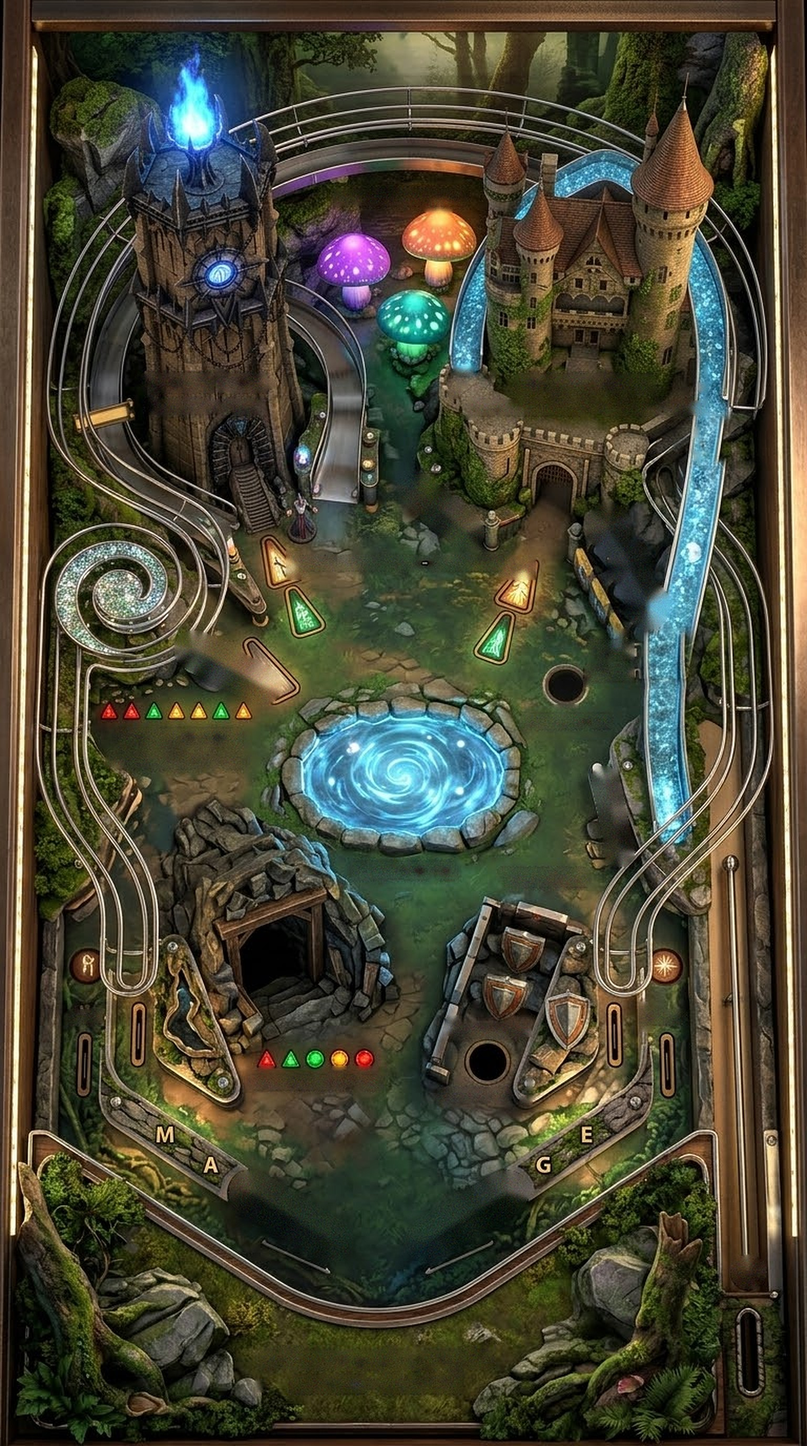
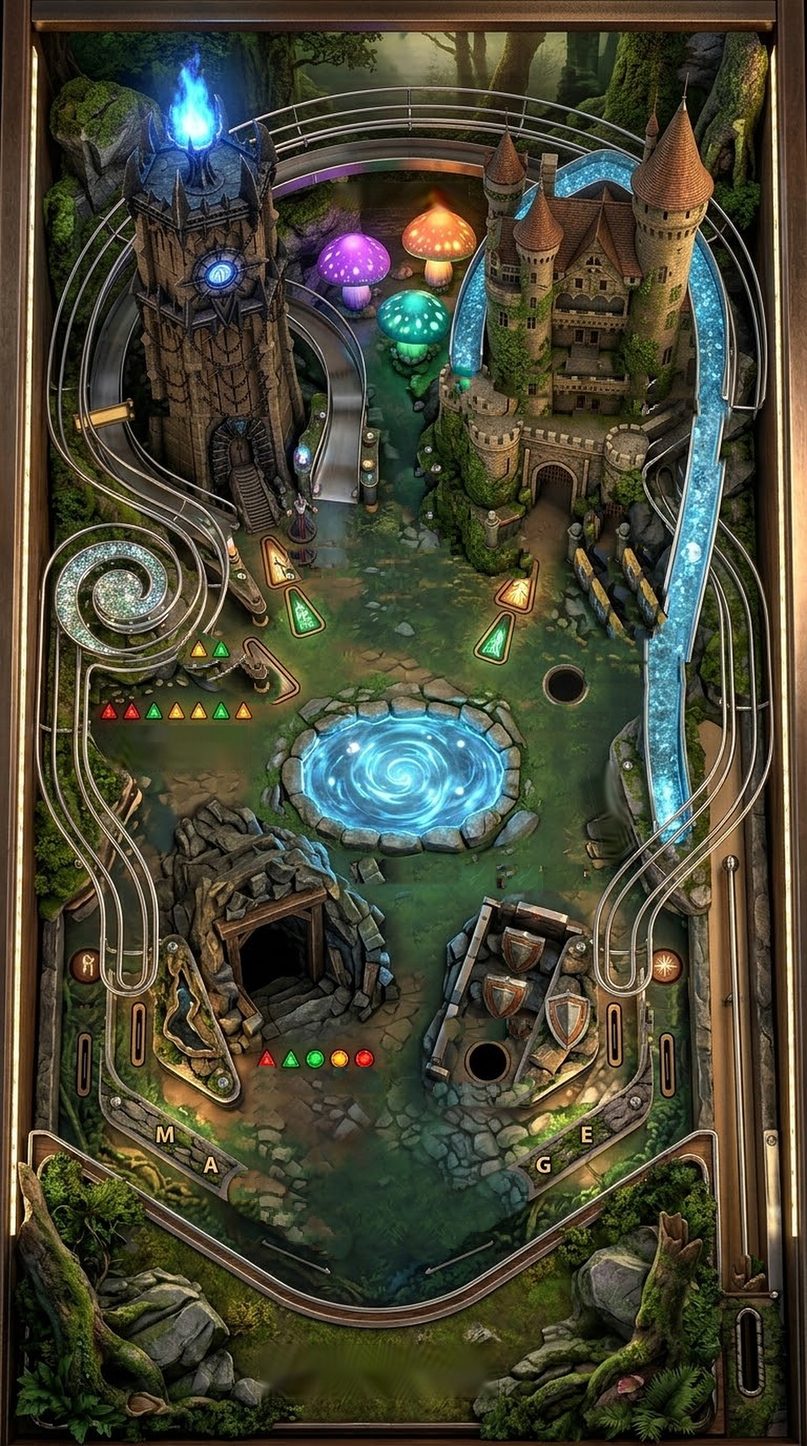
Pinball v2.3.0: reachable tower ramp, cleaner board art, sinking ball, ramp arrow
- Tower ramp: funnel arms at the mouth, shield target moved off the right
  flipper's ramp line, lower speed threshold (about 4x more successful shots).
- Board art: patch-based inpainting (SHIFTMAP) with per-region FSR/limited
  crops; no leftover letters, no smears, removed flippers show real texture.
- Balls slide into holes and sink below the surface, then rise out with a
  light ring (also when spawned for multiball and out of the tunnels).
- Chasing chevrons point at the tower ramp, faster/brighter when it pays more.
- Hint text says one right flipper.

Claude-Session: https://claude.ai/code/session_016sxfsLsBsC7Pz7HgfG51z5

diff --git a/pinball/js/world.js b/pinball/js/world.js
@@ -116,6 +116,8 @@ export class World {
     this.buildLights();
     this.buildPlayfield();
     this.buildOverlays();
+    this.buildTowerArrow();
+    this.ringFx = [];
     this.buildFlippers();
     this.buildSpinner();
     this.particles = new Particles(this.table);
@@ -316,6 +318,18 @@ export class World {
     this.add(g);
   }
 
+  // flashing chevrons that point at the tower ramp mouth
+  buildTowerArrow() {
+    const tex = T.chevronTexture();
+    const mouth = L.ramps.tower.entry;
+    this.towerChevrons = [0, 1, 2].map((i) => {
+      const m = new THREE.Mesh(flat(48, 48), additive({ map: tex, color: 0xffc860, opacity: 0 }));
+      m.position.copy(V(mouth.x + 2, mouth.y + 50 + (2 - i) * 34, LIFT * 3)); // i = 0 farthest from the mouth
+      m.renderOrder = 4;
+      return this.add(m);
+    });
+  }
+
   buildBalls() {
     this.ballMeshes = [];
     this.ballShadows = [];
@@ -353,6 +367,7 @@ export class World {
       case 'treasure': this.particles.emit(V(266, 900, 30), 0xffd24a, 80, 2.2, 1.4, 0.1, 1.6); break;
       case 'crystal': this.crystalFlash = 1; break;
       case 'lightshow': this.showT = 1.6; break;
+      case 'ring': this.ringFx.push({ m: this.glow(data.x, data.y, 30, 0xffe2a0, 5), t: 0 }); break;
       case 'burst': if (p) this.particles.emit(p, data.color ?? 0xffffff, data.n ?? 40, data.speed ?? 2, 1.1, 0.1, 1.5); break;
     }
   }
@@ -406,6 +421,25 @@ export class World {
     if (rnd() < dt * (2 + this.crystalFlash * 30)) { const s = phys?.rails?.crystal; if (s) { const q = s.at(rnd() * s.length); this.particles.emit(V(q.x, q.y, 6), 0xbff0ff, 1, 0.15, 0.9, 0.06, 0.5, 0); } }
     if (this.princessGlow && rnd() < dt * 10) this.particles.emit(V(540 + (rnd() - 0.5) * 80, 300 + (rnd() - 0.5) * 80, 40), 0xff9ad0, 1, 0.4, 1.2, 0.06, 1, -0.1);
 
+    // expanding light ring where a ball comes out of a hole / tunnel
+    this.ringFx = this.ringFx.filter((r) => {
+      r.t += dt; const k = r.t / 0.45;
+      if (k >= 1) { this.table.remove(r.m); r.m.material.dispose(); return false; }
+      r.m.scale.setScalar(1 + k * 3); r.m.material.opacity = (1 - k) * 0.9;
+      return true;
+    });
+    // tower ramp arrow: chase toward the mouth; faster and brighter when the shot is worth more
+    {
+      const hot = game && (game.multiball === 'wizard' || game.towerRampBoost);
+      const on = !game || game.state !== 'over';
+      const speed = hot ? 10 : 5;
+      this.towerChevrons.forEach((m, i) => {
+        const phase = (t * speed / (Math.PI * 2) * 3 - i) % 3;
+        const k = phase >= 0 && phase < 1 ? Math.sin(phase * Math.PI) : 0;
+        m.material.opacity = on ? (0.3 + k * (hot ? 1.3 : 1.0)) * c.glow : 0;
+        m.material.color.setHex(hot ? 0x7fd0ff : 0xffc860);
+      });
+    }
     if (phys) phys.flippers.forEach((f, i) => { this.flipperMeshes[i].rotation.y = -f.angle; });
     // light show: every lamp chases around the table for a moment
     this.showT = Math.max(0, (this.showT || 0) - dt);
@@ -417,10 +451,28 @@ export class World {
     if (phys) {
       this.ballMeshes.forEach((m, i) => {
         const b = phys.balls[i], sh = this.ballShadows[i];
-        if (!b || b.mode === 'held' || b.hidden) { m.visible = false; sh.visible = false; return; }
+        if (!b || b.hidden) { m.visible = false; sh.visible = false; return; }
+        const gt = game ? game.time : this.t;
+        let sinkH = 0;
+        if (b.mode === 'held') {
+          // sink: slide to the hole centre, then drop below the surface (the playfield hides it)
+          const e = b.sinkStart === undefined ? 9 : gt - b.sinkStart;
+          if (e > 0.5) { m.visible = false; sh.visible = false; return; }
+          const slide = Math.min(1, e / 0.12);
+          const fx = b.sinkFrom ? b.sinkFrom[0] + (b.x - b.sinkFrom[0]) * slide : b.x;
+          const fy = b.sinkFrom ? b.sinkFrom[1] + (b.y - b.sinkFrom[1]) * slide : b.y;
+          sinkH = -Math.max(0, (e - 0.1) / 0.4) * R * 2.3;
+          m.visible = true; m.position.copy(V(fx, fy, R + sinkH));
+          sh.visible = sinkH > -R; sh.position.copy(V(fx + 4, fy + 5, LIFT * 2.5)); sh.scale.setScalar(1);
+          return;
+        }
+        if (b.riseStart !== undefined) {
+          const e = gt - b.riseStart;
+          if (e < 0.3) sinkH = -(1 - e / 0.3) * R * 2.1; else b.riseStart = undefined;
+        }
         m.visible = true;
-        m.position.copy(this.ballWorld(b));
-        sh.visible = true;
+        m.position.copy(this.ballWorld(b)); m.position.y += sinkH * S;
+        sh.visible = sinkH > -R;
         const hh = b.h || 0;
         sh.position.copy(V(b.x + 4 + hh * 0.25, b.y + 5 + hh * 0.2, LIFT * 2.5));
         sh.scale.setScalar(1 + hh / 120);

diff --git a/pinball/js/layout.js b/pinball/js/layout.js
@@ -25,8 +25,8 @@ poly([[680, 1077], [362, 1252]]);
 export const TOWER_POLY = [[150, 296], [285, 300], [292, 432], [262, 468], [205, 468], [150, 380]];
 poly(TOWER_POLY, { closed: true, kind: 'rock' });
 // tower ramp mouth side walls
-poly([[290, 474], [290, 400]]);
-poly([[372, 474], [372, 404]]);
+poly([[284, 532], [290, 474], [290, 400]]);   // tower ramp mouth: left funnel arm
+poly([[398, 538], [372, 474], [372, 404]]);   // right funnel arm (guides right-flipper shots in)
 // top rail closing the mushroom glade
 poly([[290, 300], [286, 205], [322, 166], [382, 150], [442, 150], [474, 172]]);
 
@@ -51,7 +51,7 @@ poly([[618, 945], [618, 1040], [492, 1111]]);               // right inlane guid
 export const posts = [
   { x: 100, y: 875, r: 6 }, { x: 618, y: 945, r: 6 },
   { x: 162, y: 896, r: 7 }, { x: 212, y: 1032, r: 6 }, { x: m(162), y: 896, r: 7 }, { x: m(212), y: 1032, r: 6 },
-  { x: 290, y: 474, r: 5 }, { x: 372, y: 474, r: 5 }, { x: 655, y: 605, r: 6 },
+  { x: 284, y: 532, r: 5 }, { x: 398, y: 538, r: 5 }, { x: 655, y: 605, r: 6 },
 ];
 export const slings = [
   { a: SLING_L[0], b: SLING_L[2], side: 'L' },
@@ -81,7 +81,7 @@ export const dropTargets = [[579, 501], [599, 538], [616, 576]].map(([cx, cy], i
 export const TARGET_SPRITE = { x0: 552, y0: 470, x1: 640, y1: 604 };
 
 // ---- prince shields (stand-ups) on the drawn shields of the lower-right structure ----------
-export const shieldTargets = [[480, 947, 16], [538, 967, 16], [432, 878, 15]].map(([x, y, r], i) => ({ i, x, y, r, cx: x, cy: y, lamp: i === 2 ? [495, 902] : [x, y] }));
+export const shieldTargets = [[480, 947, 16], [538, 967, 16], [556, 926, 14]].map(([x, y, r], i) => ({ i, x, y, r, cx: x, cy: y, lamp: i === 2 ? [495, 902] : [x, y] }));
 
 export const castleGate = { a: [505, 461], b: [548, 461], x: 527, y: 450 };
 
@@ -105,7 +105,7 @@ export const pool = { x: 376, y: 726, rx: 102, ry: 72, r: 80 };
 // ---- rails: one-way wireforms/ramps following the drawn ramps. points [x, y, height]
 export const ramps = {
   tower: { // grey ramp behind the tower → spiral → left wires → left inlane
-    entry: { x: 331, y: 466, w: 78, diry: -1 }, minSpeed: 520, exit: { vx: 0, vy: 380 },
+    entry: { x: 331, y: 466, w: 78, diry: -1 }, minSpeed: 420, exit: { vx: 0, vy: 380 },
     pts: [[321, 466, 0], [330, 390, 30], [336, 300, 66], [305, 238, 92], [235, 205, 106], [160, 235, 104], [118, 310, 96], [100, 410, 88], [94, 470, 82],
       [62, 535, 76], [72, 608, 70], [140, 628, 64], [186, 568, 58], [150, 505, 52], [96, 528, 48], [104, 590, 44], [150, 582, 40], [140, 548, 37],
       [72, 640, 32], [64, 750, 26], [82, 850, 18], [108, 900, 10], [126, 940, 3]],

diff --git a/pinball/index.html b/pinball/index.html
@@ -8,7 +8,7 @@
   <meta name="apple-mobile-web-app-status-bar-style" content="black-translucent">
   <meta name="apple-mobile-web-app-title" content="פינבול">
   <meta name="theme-color" content="#0b130e">
-  <meta name="app-version" content="2.2.0">
+  <meta name="app-version" content="2.3.0">
   <title>פינבול היער והטירה</title>
   <link rel="manifest" href="manifest.json">
   <link rel="apple-touch-icon" href="assets/icon-180.png">
@@ -44,7 +44,7 @@
     <div id="camName"></div>
     <div id="pops"></div>
     <button id="plunger" aria-label="קפיץ שיגור"><span class="meter"><span id="plungerFill"></span></span><span class="lbl">החזיקו או<br>גררו למטה</span></button>
-    <div id="hint"><div><b>◀</b><span>הקשה בצד שמאל<br>שני הפליפרים השמאליים</span></div><div><b>▶</b><span>הקשה בצד ימין<br>שני הפליפרים הימניים</span></div></div>
+    <div id="hint"><div><b>◀</b><span>הקשה בצד שמאל<br>שני הפליפרים השמאליים</span></div><div><b>▶</b><span>הקשה בצד ימין<br>הפליפר הימני</span></div></div>
   </div>
 
   <section id="title" class="screen">
@@ -59,7 +59,7 @@
       </div>
       <ul id="achList" class="ach"></ul>
       <button id="btnStart" class="big">התחלת משחק</button>
-      <p class="help">צד שמאל של המסך = פליפרים שמאליים · צד ימין = ימניים · החזיקו את הקפיץ למטה מימין לשיגור · 🎥 מחליף זווית מצלמה<br>למסך מלא באייפון: שיתוף ← הוספה למסך הבית<br><span id="appVersion" dir="ltr"></span></p>
+      <p class="help">צד שמאל של המסך = שני הפליפרים השמאליים · צד ימין = הפליפר הימני · החזיקו את הקפיץ למטה מימין לשיגור · 🎥 מחליף זווית מצלמה<br>למסך מלא באייפון: שיתוף ← הוספה למסך הבית<br><span id="appVersion" dir="ltr"></span></p>
     </div>
   </section>
 

diff --git a/pinball/js/game.js b/pinball/js/game.js
@@ -281,6 +281,7 @@ export class Game {
   }
 
   capture(b, h) {
+    b.sinkFrom = [b.x, b.y]; b.sinkStart = this.time; // drives the sinking animation in World
     b.mode = 'held'; b.vx = b.vy = 0; b.x = h.x; b.y = h.y; b.h = 0;
     this.sound.play('hole');
     this.world.fx('spark', { x: h.x, y: h.y, h: 10, color: 0xffffff, n: 18 });
@@ -293,6 +294,8 @@ export class Game {
     const { b, h } = hd;
     b.mode = 'field';
     b.noCap = this.time + 0.6;
+    b.riseStart = this.time; // rising-out-of-the-hole animation in World
+    this.world.fx('ring', { x: h.out ? h.out[0] : h.x, y: h.out ? h.out[1] : h.y });
     const j = 1 + (Math.random() - 0.5) * 0.12;
     b.vx = h.kick.vx * j; b.vy = h.kick.vy * j;
     if (h.out) { b.x = h.out[0]; b.y = h.out[1]; } else { b.x = h.x + Math.sign(h.kick.vx) * 4; b.y = h.y + Math.sign(h.kick.vy) * 4; }
@@ -397,7 +400,7 @@ export class Game {
         if (this.state !== 'playing') return;
         const o = hole.out || [hole.x, hole.y + 6];
         const nb = this.phys.addBall(o[0] + (Math.random() - 0.5) * 4, o[1], hole.kick.vx * (0.8 + Math.random() * 0.4), hole.kick.vy);
-        nb.noCap = this.time + 0.8;
+        nb.noCap = this.time + 0.8; nb.riseStart = this.time;
         nb.launched = true;
         this.sound.play('kick');
         this.world.fx('burst', { x: hole.x, y: hole.y, color: kind === 'castle' ? 0xffcf6a : 0x7fc8ff });

diff --git a/pinball/js/textures.js b/pinball/js/textures.js
@@ -42,6 +42,17 @@ export function softDot() {
   return tex(c);
 }
 
+// chevron arrow (points to the top of the texture) with a soft glow
+export function chevronTexture() {
+  const s = 128; const [c, g] = canvas(s, s);
+  const path = () => { g.beginPath(); g.moveTo(20, 92); g.lineTo(64, 36); g.lineTo(108, 92); };
+  g.lineCap = 'round'; g.lineJoin = 'round';
+  g.strokeStyle = 'rgba(255,255,255,0.35)'; g.lineWidth = 34; path(); g.stroke();
+  g.strokeStyle = 'rgba(255,255,255,0.6)'; g.lineWidth = 22; path(); g.stroke();
+  g.strokeStyle = '#ffffff'; g.lineWidth = 11; path(); g.stroke();
+  return tex(c);
+}
+
 // ---------- forest / mountain backdrop panorama ----------
 export function backdropTexture() {
   const W = 2048, H = 1024; const [c, g] = canvas(W, H);

diff --git a/pinball/sw.js b/pinball/sw.js
@@ -1,5 +1,5 @@
 // Forest & Castle Pinball – offline cache (stale-while-revalidate, scoped to /pinball/).
-const VERSION = 'fcp-v4';
+const VERSION = 'fcp-v5';
 const SHELL = [
   './', './index.html', './manifest.json', './css/style.css',
   './js/main.js', './js/world.js', './js/physics.js', './js/layout.js', './js/textures.js', './js/game.js', './js/audio.js', './js/ui.js', './js/camera.js',

diff --git a/pinball/js/main.js b/pinball/js/main.js
@@ -15,7 +15,7 @@ import * as L from './layout.js';
 const $ = (s) => document.querySelector(s);
 const nextFrame = () => new Promise((r) => requestAnimationFrame(() => setTimeout(r, 0)));
 const CAM_KEY = 'fcp_cam2';
-export const APP_VERSION = '2.2.0';
+export const APP_VERSION = '2.3.0';
 
 async function boot() {
   const canvas = $('#gl');

diff --git a/pinball/tools/make_playfield.py b/pinball/tools/make_playfield.py
@@ -1,6 +1,6 @@
 """Builds the playfield texture from the concept art (pinball/assets/concept.jpg):
 removes all printed text, the drawn flippers (real 3D flippers are placed over them),
-the drawn ball, and the right-middle flipper. Upscales 2x for iPhone retina screens.
+the drawn ball, the right-middle and castle flippers. Upscales 2x for iPhone retina screens.
 Run:  python3 pinball/tools/make_playfield.py
 """
 import cv2
@@ -42,9 +42,25 @@ def text_mask(img):
         fill = ((roi_v > 150) & (warm > 18)) | (roi_v > 225)
         sub = np.zeros((y1 - y0, x1 - x0), np.uint8)
         sub[fill] = 255
-        sub = cv2.dilate(sub, np.ones((3, 3), np.uint8), iterations=3)  # include the dark outline
+        sub = cv2.dilate(sub, np.ones((3, 3), np.uint8), iterations=4)  # include the dark outline
         m[y0:y1, x0:x1] = np.maximum(m[y0:y1, x0:x1], sub)
+    # captions over plain ground/stone/wood: drop the whole box so the fill is one coherent texture
+    for (x0, y0, x1, y1) in RECTS:
+        m[y0:y1, x0:x1] = 255
     return m
+
+RECTS = [
+    (138, 352, 256, 397),    # wizard tower caption (on the tower wood)
+    (284, 522, 504, 550),    # centre note
+    (106, 690, 236, 733),    # dwarf mine caption
+    (336, 817, 436, 841),    # magic pool caption
+    (472, 822, 563, 847),    # prince shield (lower)
+    (427, 969, 503, 991),    # mystery hole captions
+    (412, 1030, 503, 1053),
+    (237, 1018, 363, 1041),  # mine lights caption
+    (247, 1280, 474, 1330),  # bottom caption
+    (318, 174, 446, 198),    # 3 mushrooms caption
+]
 
 def capsule(m, p, q, r):
     cv2.line(m, p, q, 255, thickness=int(r * 2))
@@ -56,8 +72,8 @@ shapes = np.zeros((H, W), np.uint8)
 capsule(shapes, (238, 1134), (314, 1180), 21)   # lower left flipper
 capsule(shapes, (482, 1134), (406, 1180), 21)   # lower right flipper
 capsule(shapes, (184, 618), (249, 652), 19)     # upper left flipper
-capsule(shapes, (394, 464), (444, 506), 17)     # castle flipper
-capsule(shapes, (575, 741), (590, 808), 13)     # right-middle flipper (removed from the game)
+capsule(shapes, (394, 464), (444, 506), 20)     # castle flipper (removed from the game)
+capsule(shapes, (574, 737), (590, 808), 15)     # right-middle flipper (removed from the game)
 cv2.circle(shapes, (589, 810), 15, 255, -1)
 cv2.circle(shapes, (712, 1210), 17, 255, -1)    # drawn ball in the plunger lane
 SHIELDS = [(579, 501), (599, 538), (616, 576)]     # drop targets: drawn separately as sprites
@@ -68,7 +84,6 @@ mask = np.maximum(mask, shapes)
 # patches cloned from matching neighbouring texture (better than inpainting for big areas)
 CLONES = [  # (dst x0, y0, x1, y1, src dx, src dy)
     (662, 392, 742, 446, 0, 54),     # 'crystal ramp' caption over the wires → wires below
-    (600, 596, 664, 656, 0, 62),     # 'prince shield' caption over the crystal ramp → ramp below
 ]
 base = src.copy()
 for (x0, y0, x1, y1, dx, dy) in CLONES:
@@ -78,12 +93,42 @@ for (x0, y0, x1, y1, dx, dy) in CLONES:
     a = cv2.GaussianBlur(a, (0, 0), 4)[..., None]
     base[y0:y1, x0:x1] = (patch * a + base[y0:y1, x0:x1] * (1 - a)).astype(np.uint8)
     mask[y0 + 4:y1 - 4, x0 + 4:x1 - 4] = 0
-clean = cv2.inpaint(base, mask, 6, cv2.INPAINT_TELEA)
-# second pass with a soft blend so large patches don't look smeared
-blur = cv2.GaussianBlur(clean, (0, 0), 2.2)
-soft = cv2.GaussianBlur(mask.astype(np.float32) / 255, (0, 0), 3)[..., None]
-noise = np.random.default_rng(3).normal(0, 6, clean.shape)
-clean = np.clip(clean * (1 - soft * 0.5) + blur * soft * 0.5 + noise * soft, 0, 255).astype(np.uint8)
+# texture-synthesising inpainting. Default: patch-based SHIFTMAP over the whole image (real
+# stone/grass/wood). Overrides where that copied unrelated objects (picked by visual comparison).
+valid_all = (mask == 0).astype(np.uint8) * 255
+clean = base.copy()
+cv2.xphoto.inpaint(base, valid_all, clean, cv2.xphoto.INPAINT_SHIFTMAP)
+
+def region_fill(box, crop, method):
+    """Re-fill the masked pixels inside box using only the pixels inside crop."""
+    x0, y0, x1, y1 = crop
+    sub = base[y0:y1, x0:x1].copy()
+    hole = np.zeros(mask.shape, bool)
+    bx0, by0, bx1, by1 = box
+    hole[by0:by1, bx0:bx1] = mask[by0:by1, bx0:bx1] > 0
+    h = hole[y0:y1, x0:x1]
+    out = sub.copy()
+    cv2.xphoto.inpaint(sub, (~h).astype(np.uint8) * 255, out, method)
+    reg = clean[y0:y1, x0:x1]
+    reg[h] = out[h]
+
+def region_clone(box, dx, dy):
+    """Copy texture from an offset area of the already-cleaned image into the masked pixels."""
+    x0, y0, x1, y1 = box
+    hole = mask[y0:y1, x0:x1] > 0
+    src_patch = clean[y0 + dy:y1 + dy, x0 + dx:x1 + dx]
+    clean[y0:y1, x0:x1][hole] = src_patch[hole]
+
+FSR = cv2.xphoto.INPAINT_FSR_BEST
+region_fill((100, 686, 240, 736), (60, 690, 290, 800), FSR)      # dwarf mine caption (crop excludes the lights)
+region_fill((243, 1276, 478, 1334), (200, 1262, 520, 1360), FSR)  # bottom caption
+region_fill((312, 170, 450, 202), (300, 168, 470, 240), FSR)      # mushrooms caption
+region_fill((556, 718, 612, 834), (520, 700, 640, 860), FSR)      # removed right-middle flipper
+region_fill((128, 346, 262, 400), (124, 312, 290, 402), cv2.xphoto.INPAINT_SHIFTMAP)  # tower caption: only tower wood around it
+
+# feather the patch edges a little
+soft = cv2.GaussianBlur((mask > 0).astype(np.float32), (0, 0), 1.2)[..., None]
+clean = np.clip(clean * soft + base * (1 - soft), 0, 255).astype(np.uint8)
 
 def up(img):
     big = cv2.resize(img, (W * 2, H * 2), interpolation=cv2.INTER_LANCZOS4)
